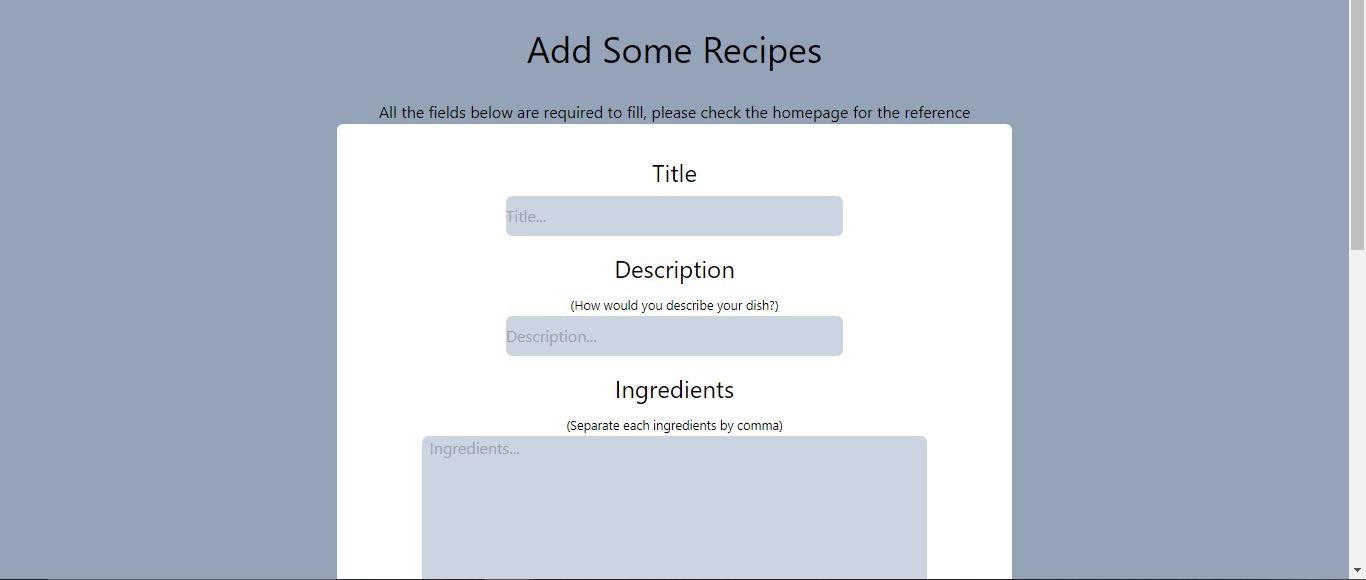
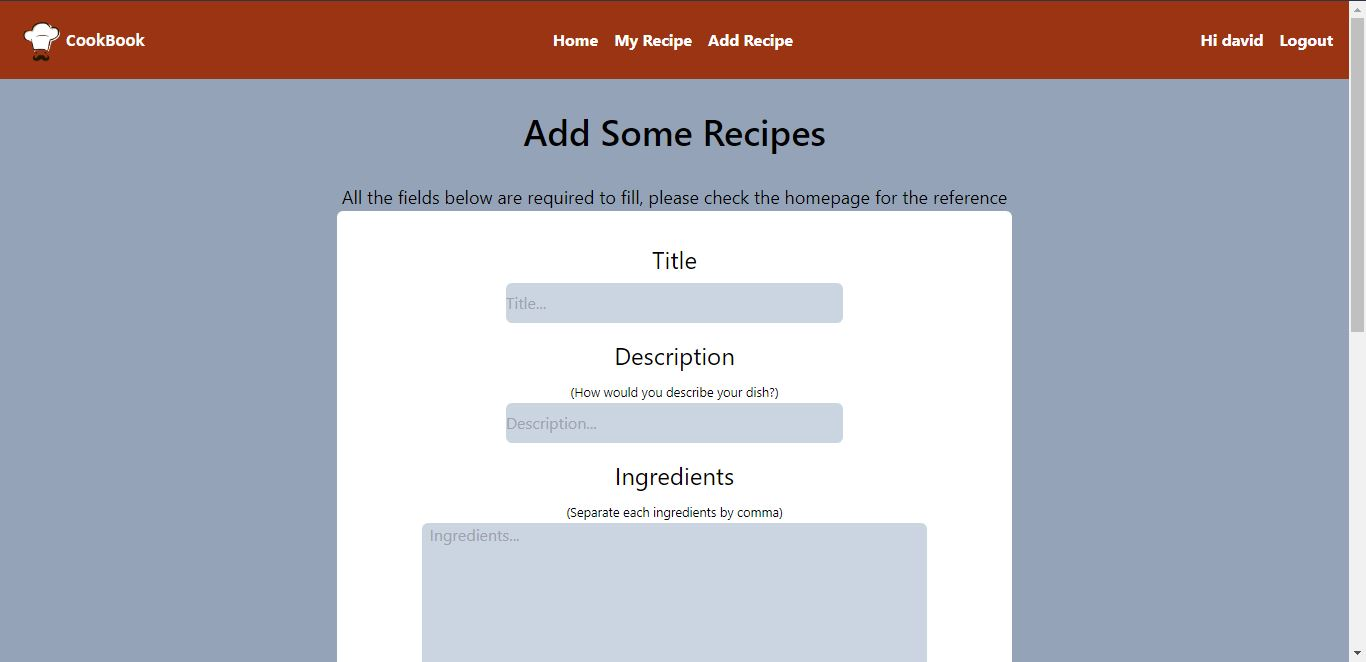
Components are edited

diff --git a/src/pages/UserRecipes.tsx b/src/pages/UserRecipes.tsx
@@ -81,19 +81,19 @@ const UserRecipes = () => {
                       <tr
                         key={id}
                         className="border-2 border-solid  divide-black">
-                        <td className="py-4 text-lg">{title}</td>
-                        <td className="py-4">{created_at}</td>
+                        <td className="py-4 text-lg md:text-2xl">{title}</td>
+                        <td className="py-4 md:text-xl">{created_at}</td>
                         <td className="flex p-4 gap-4 ">
                           <button
                             onClick={() => navigate(`/userrecipe/${id}/edit`)}
-                            className=" py-2 w-full bg-sky-600  text-white rounded-lg">
+                            className=" p-2 w-full bg-sky-600  text-white rounded-lg ">
                             <FontAwesomeIcon icon={faPenToSquare} /> Edit
                           </button>
                           <button
                             onClick={() =>
                               navigate(`/userrecipe/${id}/myrecipe`)
                             }
-                            className=" py-2 w-full bg-green-500  text-white rounded-lg">
+                            className=" p-2 w-full bg-green-500  text-white rounded-lg whitespace-nowrap">
                             <FontAwesomeIcon icon={faEye} /> Show
                           </button>
                         </td>
@@ -102,7 +102,7 @@ const UserRecipes = () => {
                   </tbody>
                 </table>
                 <ul className="flex mt-6 ">
-                  <li className="px-2">
+                  <li className="px-2 text-xl">
                     <button onClick={previousPage}>Previous</button>
                   </li>
                   {numbers.map((n, id) => (
@@ -114,7 +114,7 @@ const UserRecipes = () => {
                       <button onClick={() => changeCurrentPage(n)}>{n}</button>
                     </li>
                   ))}
-                  <li className="px-2">
+                  <li className="px-2 text-xl">
                     <button onClick={nextPage}>Next</button>
                   </li>
                 </ul>

diff --git a/src/pages/Register.tsx b/src/pages/Register.tsx
@@ -123,9 +123,11 @@ const Register = () => {
         style={{
           backgroundImage: `url(${wallpaper})`,
         }}>
-        <h1 className="absolute text-white font-mono font-black text-6xl w-68 text-center right-32 top-28">
-          Everyone can COOK
-        </h1>
+        <div className="absolute text-center right-0 top-0 left-0 bottom-0 flex justify-center items-center">
+          <h1 className=" text-white  font-serif text-6xl w-3/4 drop-shadow-lg mb-52">
+            "Everyone can COOK"
+          </h1>
+        </div>
       </div>
       <div className="basis-1/2 bg-gray-300 min-h-screen flex flex-col items-center justify-center w-full">
         <div className="flex flex-col items-center justify-center">

diff --git a/src/pages/Profile.tsx b/src/pages/Profile.tsx
@@ -80,9 +80,9 @@ const Profile = () => {
 
   return (
     <>
-      <div className="text-center bg-neutral-900 text-white md:w-96 pt-8">
+      <div className="text-center bg-neutral-900 text-white md:w-96 pt-4">
         <h1 className="text-4xl mb-4">My Profile</h1>
-        <div className="h-1/5  mx-auto mb-8 overflow-visible">
+        <div className="h-1/5  mx-auto mb-4 overflow-visible">
           {photo ? (
             <img
               src={
@@ -138,7 +138,7 @@ const Profile = () => {
           </div>
         )}
 
-        <div>
+        <div className="pb-8">
           <div className="mb-4">
             <h2 className="text-xl">Name</h2>
             <p className="text-xl">{myName?.join(" ")}</p>

diff --git a/src/pages/Login.tsx b/src/pages/Login.tsx
@@ -84,9 +84,11 @@ const Login = () => {
         style={{
           backgroundImage: `url(${wallpaper})`,
         }}>
-        <h1 className="absolute text-white font-mono font-black text-6xl w-68 text-center right-32 top-28">
-          Everyone can COOK
-        </h1>
+        <div className="absolute text-center right-0 top-0 left-0 bottom-0 flex justify-center items-center">
+          <h1 className=" text-white  font-serif text-6xl w-3/4 drop-shadow-lg mb-52">
+            "Everyone can COOK"
+          </h1>
+        </div>
       </div>
 
       <div className="basis-1/2 bg-gray-300 min-h-screen flex flex-col items-center justify-center w-full">

diff --git a/src/pages/AddRecipe.tsx b/src/pages/AddRecipe.tsx
@@ -85,8 +85,8 @@ const AddRecipe = () => {
     <>
       <Navbar />
       <div className="w-full h-full bg-slate-400 flex flex-col items-center justify-center">
-        <h1 className="text-4xl my-8">Add Some Recipes</h1>
-        <h2>
+        <h1 className="text-4xl my-8 font-semibold">Add Some Recipes</h1>
+        <h2 className=" text-lg text-center">
           All the fields below are required to fill, please check the homepage
           for the reference
         </h2>

diff --git a/src/pages/Dashboard.tsx b/src/pages/Dashboard.tsx
@@ -29,7 +29,12 @@ const Dashboard = () => {
   });
 
   if (error) {
-    return <h1>Error man</h1>;
+    return (
+      <>
+        <Navbar />
+        <h1 className="text-center text-2xl">Houston, We got a problem!!!</h1>
+      </>
+    );
   }
 
   return (

diff --git a/README.md b/README.md
@@ -44,6 +44,42 @@
 - UI of my project
 - Strong validation and security for Login and Registration
 
-###
+<br>
+<br>
+<br>
+
+## Login
+
+![Alt text](/screenshots/login.JPG)<br>
+
+## Register
+
+![Alt text](/screenshots/register.JPG)<br>
+
+## Home Page
+
+![Alt text](/screenshots/homepage.JPG)<br>
+
+## User's Recipe List and Profile
+
+![Alt text](/screenshots/users_recipelist_and_profile.JPG)<br>
+
+## Update Profile
+
+![Alt text](/screenshots/update_profile.JPG)<br>
+
+## Update Recipe
+
+![Alt text](/screenshots/update_recipe.JPG)<br>
+
+## Add Recipe
 
 ![Alt text](/screenshots/add_recipe.JPG)<br>
+
+## Before Exporting Recipe to PDF
+
+![Alt text](/screenshots/before_saving_recipe.JPG)<br>
+
+## After Exporting
+
+![Alt text](/screenshots/after_saving_recipe.JPG)<br>
